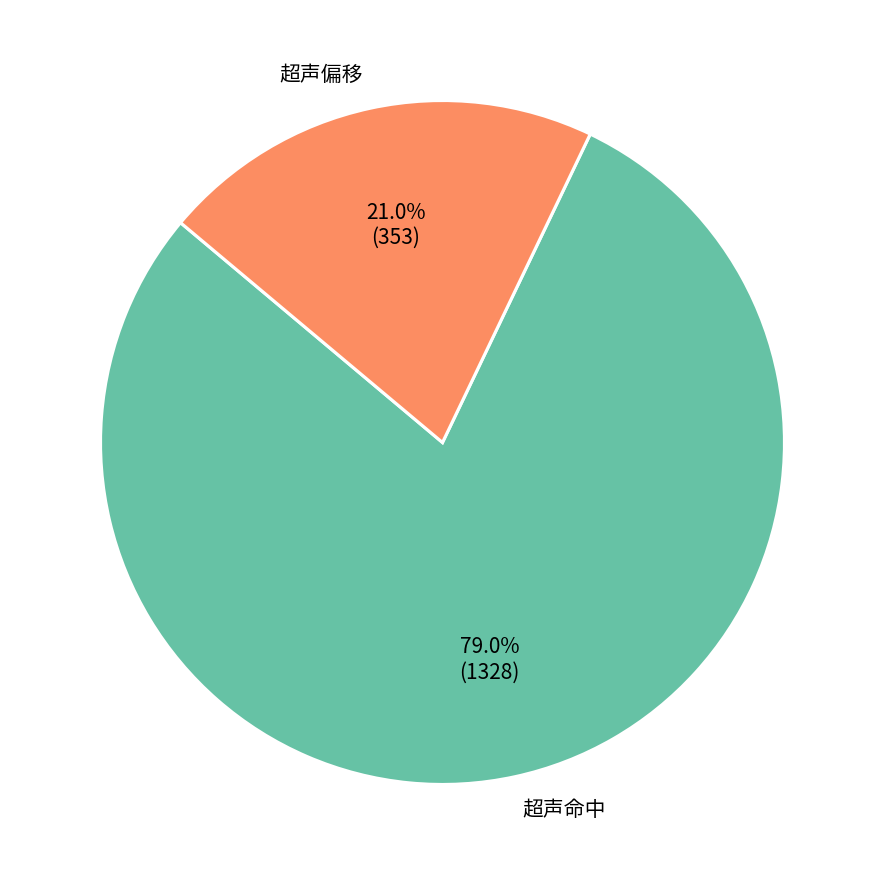
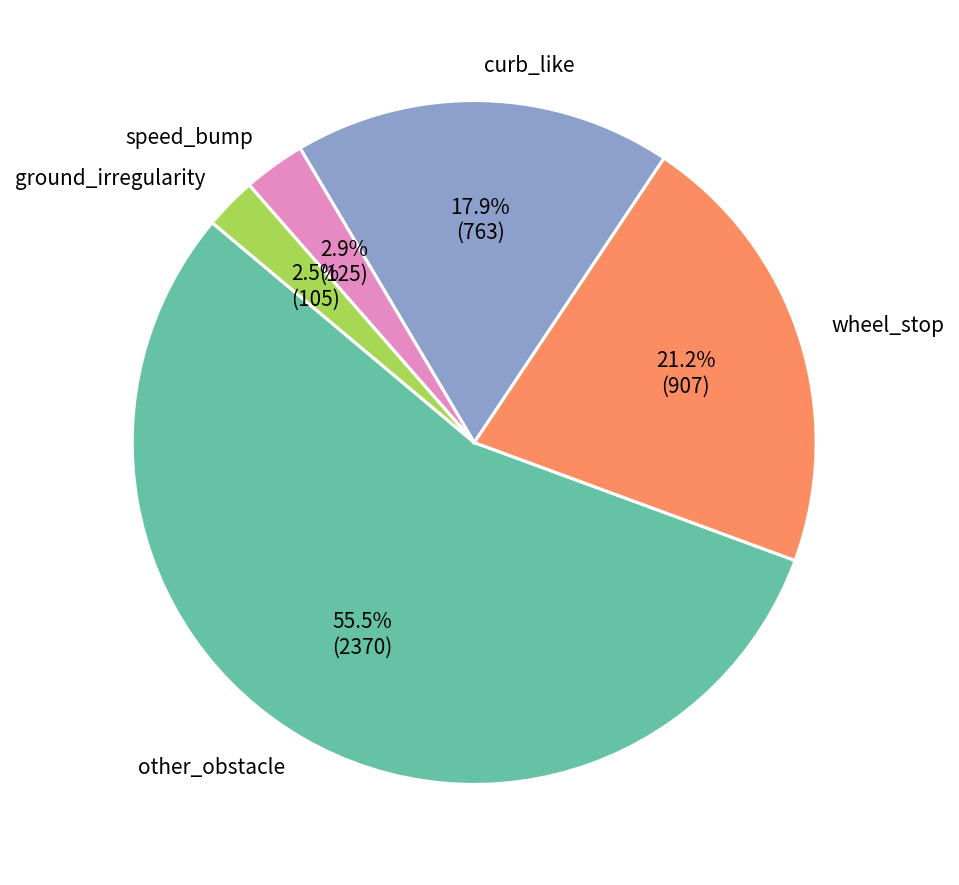
上传预测修改

diff --git a/tool/upload_predictions_to_feishu.py b/tool/upload_predictions_to_feishu.py
@@ -24,10 +24,10 @@ CSV 格式（有表头）::
 
 用法::
 
-    python tool/upload_predictions_to_feishu.py \\
-        --csv /path/to/predictions.csv \\
-        --data-dir /mnt/public-data/user/ziroujiang/raw_data_01-04 \\
-        --spreadsheet-url "https://rqk9rsooi4.feishu.cn/sheets/XXXX"
+    python tool/upload_predictions_to_feishu.py \
+        --csv /home/jiangzirou/avp_promptkit/tool/v1.csv \
+        --data-dir /mnt/public-data/user/ziroujiang/trigger60000 \
+        --spreadsheet-url "https://rqk9rsooi4.feishu.cn/sheets/ROlMszSSphJZ6MtaIQcc70vxnaf"
 """
 
 from __future__ import annotations
@@ -130,16 +130,22 @@ def fetch_sheets(
 ) -> List[Dict[str, Any]]:
     url_v3 = f"{OPEN_API}/sheets/v3/spreadsheets/{spreadsheet_token}/sheets/query"
     rv3 = requests.get(url_v3, headers=headers, timeout=timeout)
+    v3_json: Optional[dict] = None
     if rv3.status_code == 200:
-        j = rv3.json()
-        if j.get("code") in (None, 0):
-            sheets = (j.get("data") or {}).get("sheets") or []
+        v3_json = rv3.json()
+        if v3_json.get("code") in (None, 0):
+            sheets = (v3_json.get("data") or {}).get("sheets") or []
             if sheets:
                 return sheets
-    url_v2 = f"{OPEN_API}/sheets/v2/spreadsheets/{spreadsheet_token}"
+    url_v2 = f"{OPEN_API}/sheets/v2/spreadsheets/{spreadsheet_token}/metainfo"
     rv2 = requests.get(url_v2, headers=headers, timeout=timeout)
     if rv2.status_code != 200:
-        raise RuntimeError(f"sheets v3/v2 均失败")
+        v3_detail = f"v3 HTTP {rv3.status_code}"
+        if v3_json:
+            v3_detail += f" code={v3_json.get('code')} msg={v3_json.get('msg', '')}"
+        raise RuntimeError(
+            f"sheets v3/v2 均失败: {v3_detail}; v2 HTTP {rv2.status_code}: {rv2.text[:1500]}"
+        )
     j2 = rv2.json()
     if j2.get("code") not in (None, 0):
         raise RuntimeError(f"sheets v2 业务错误: {j2}")